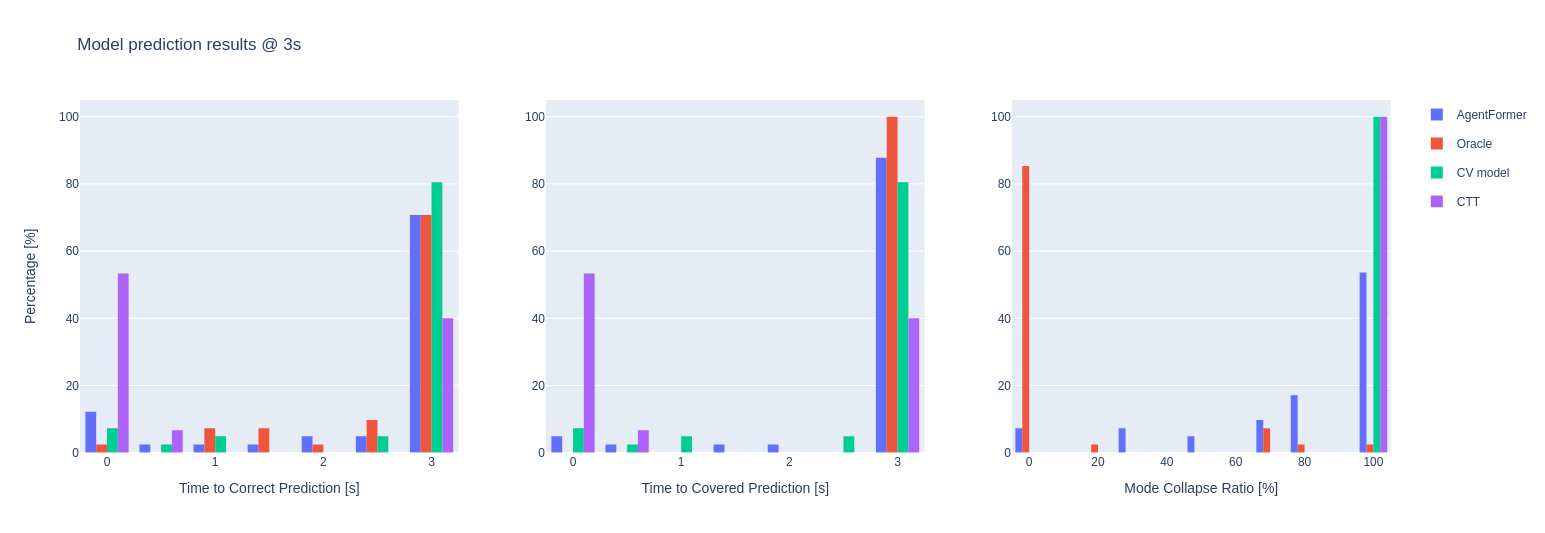
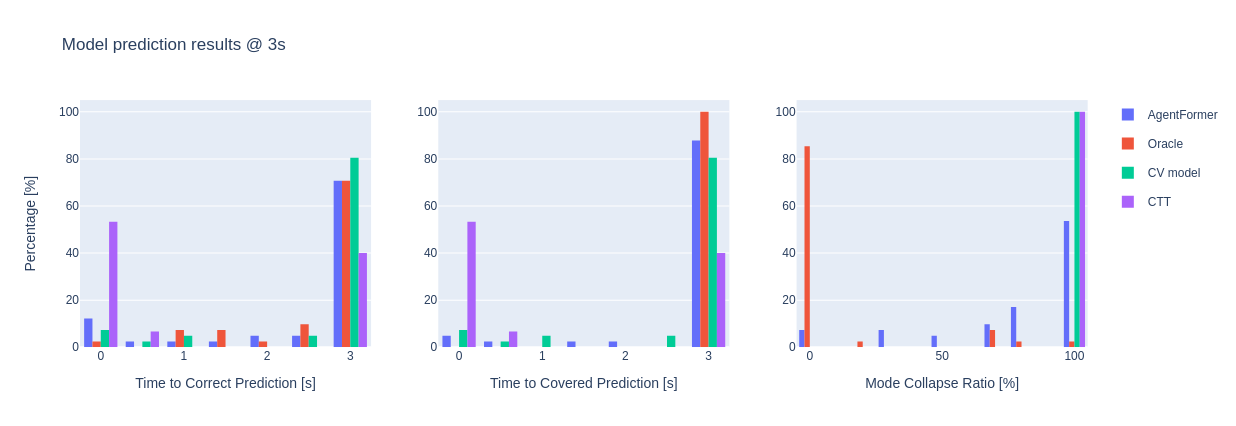
minor changes results plotting

diff --git a/plot_modemetrics.py b/plot_modemetrics.py
@@ -51,20 +51,36 @@ for model, path in zip(models, models_result_paths):
     df_temp['metric t2cov'] = df_temp.apply(lambda row: row['t2cov'] if row['t2cov'] < row['pred_time'] else Hpred_time, axis=1)
     dfs.append(df_temp)
 
-    # print stats
+    # calc stats
     df_notcorrect = df_temp[df_temp['metric t2cor'] < Hpred_time]
     df_0scor = df_temp[df_temp['metric t2cor'] ==0]
     df_notcovered = df_temp[df_temp['metric t2cov'] < Hpred_time]
     df_0scov = df_temp[df_temp['metric t2cov'] ==0]
 
-    print(f'MODEL: {model}')
-    print(f'{len(df_temp)} interactions in dataset')
-    print(f"{round(100 * len(df_notcorrect) / len(df_temp),1)}% of the intentions not correct, with {df_notcorrect['t2cor'].mean()}s as average time-to-correct-mode-prediction")
-    print(f"{round(100*len(df_0scor)/len(df_temp), 1)}% of the intentions not correctly predicted before inevitable homotopy collapse (t2cor = 0s)")
+    N_interactions = len(df_temp)
+    perc_not_correct = round(100 * len(df_notcorrect) / len(df_temp),1)
+    perc_correct = round(100 - perc_not_correct, 1)
+    avg_t2cor = df_notcorrect['t2cor'].mean()
+    perc_t2cor_0s = round(100*len(df_0scor)/len(df_temp), 1)
+    perc_not_covered = round(100 * len(df_notcovered) / len(df_temp),1)
+    perc_covered = round(100 - perc_not_covered, 1)
+    avg_t2cov = df_notcovered['t2cov'].mean()
+    perc_t2cov_0s = round(100*len(df_0scov)/len(df_temp), 1)
+
     r_pred_consistency = len(df_temp[df_temp.prediction_consistency == True]) / len(df_temp)
+    perc_pred_consistency = round(100*r_pred_consistency,1)
+    perc_mode_collapse = round(df_temp['r_mode_collapse'].mean(),1)
     consistencies.append(r_pred_consistency)
-    print(f'Prediction consistency = {round(100*r_pred_consistency,1)}%')
-    print(f"Average mode-collapse = {round(df_temp['r_mode_collapse'].mean(),1)}%")
+
+    # print stats
+    print(f'MODEL: {model}')
+    print(f'{N_interactions} interactions in dataset')
+    print(f"{perc_not_correct}% of the intentions not correct, with {avg_t2cor}s as average time-to-correct-mode-prediction")
+    print(f"{perc_t2cor_0s}% of the intentions not correctly predicted before inevitable homotopy collapse (t2cor = 0s)")
+
+    print(f'Prediction consistency = {perc_pred_consistency}%')
+    print(f"Average mode-collapse = {perc_mode_collapse}%")
+    print(f'Latex table str: {model} & {avg_t2cor:.1f} & {perc_t2cor_0s:.1f} & {perc_correct:.1f} & {avg_t2cov:.1f} & {perc_t2cov_0s:.1f} & {perc_covered:.1f} & {perc_mode_collapse:.1f} & {perc_pred_consistency:.1f}  \\')
     print()
 
     df_stats_model = pd.DataFrame({
@@ -122,4 +138,4 @@ fig.update_yaxes(range=[0, 105], row=1, col=3)
 fig.show()
 
 if save_plot:
-    pio.write_image(fig, save_path, width=1*1700/1.1, height=0.8*800/1.2)
+    pio.write_image(fig, save_path, width=0.8*1*1700/1.1, height=0.8*0.8*800/1.2)
